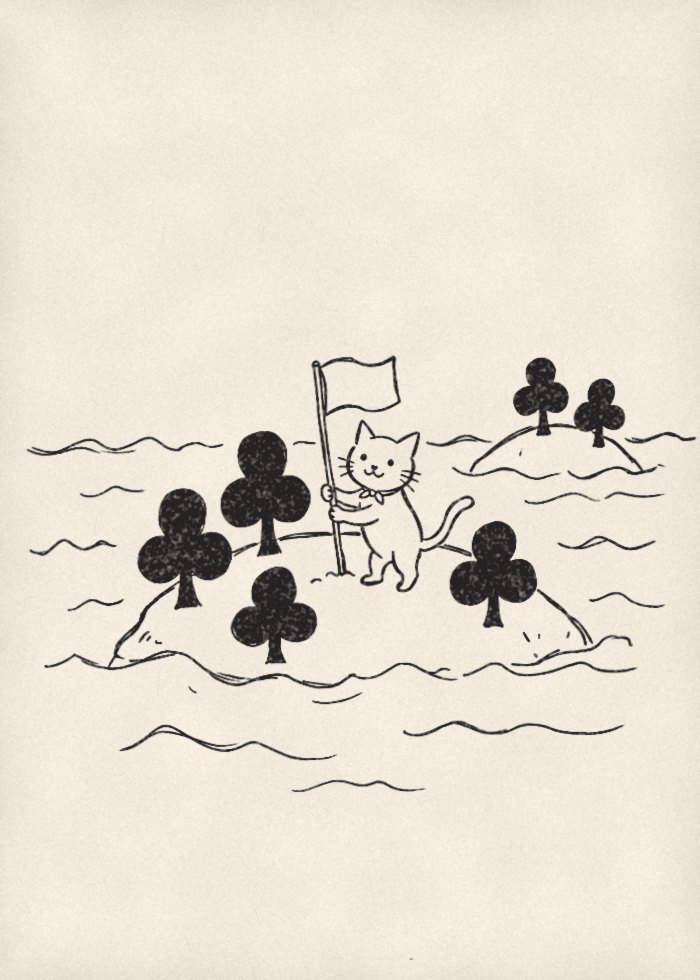
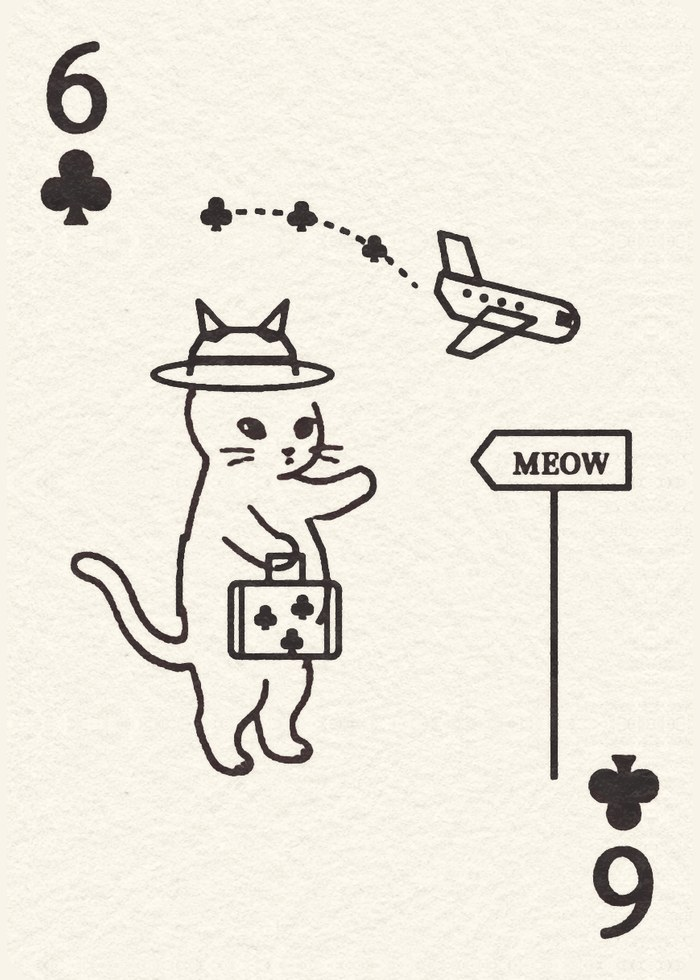
Projects: new 6♣ for ASEAN (cat traveller with the club suitcase)

diff --git a/projects.html b/projects.html
@@ -312,7 +312,7 @@
       {rank:"3", suit:"diamond", label:"PCDD", scene:"lab", img:"img/cards/card-3-diamonds.jpg"},
       {rank:"5", suit:"spade",   label:"Vantage", scene:"laptop", img:"img/cards/card-5-spades.jpg"},
       {rank:"4", suit:"heart",   label:"Red Cross fleet", scene:"car", img:"img/cards/card-4-hearts.jpg"},
-      {rank:"5", suit:"club",    label:"ASEAN expansion", scene:"islands", img:"img/cards/card-5-clubs.jpg"},
+      {rank:"6", suit:"club",    label:"ASEAN expansion", scene:"islands", img:"img/cards/card-6-clubs.jpg"},
       {rank:"7", suit:"spade",   label:"Fermilab lenses", scene:"telescope", img:"img/cards/card-7-spades.jpg"},
       {rank:"8", suit:"diamond", label:"green routing", scene:"bus", img:"img/cards/card-8-diamonds.jpg"},
       {rank:"JOKER", suit:null,  label:"this website", scene:"joker", img:"img/cards/card-joker.jpg"},
@@ -604,7 +604,7 @@
   </script>
 <script>
 // Hand-inked, watercolor playing cards scattered like a table. Purely decorative.
-// Skips the combos already used for projects (3♦ 5♠ 4♥ 5♣ 7♠ 8♦ 9♥ and the Joker).
+// Skips the combos already used for projects (3♦ 5♠ 4♥ 6♣ 7♠ 8♦ 9♥ and the Joker).
 (function(){
   const SUIT={
     heart:"M50 90 C20 68 5 52 5 33 C5 18 16 8 30 8 C40 8 46 14 50 23 C54 14 60 8 70 8 C84 8 95 18 95 33 C95 52 80 68 50 90Z",
@@ -904,7 +904,7 @@
   }
 
   // A border of real-looking printed cards piled down the left edge and along the bottom.
-  // Avoids the card values used for projects (3♦ 5♠ 4♥ 5♣ 7♠ 8♦ 9♥) and on the table (A♥ K♦).
+  // Avoids the card values used for projects (3♦ 5♠ 4♥ 6♣ 7♠ 8♦ 9♥) and on the table (A♥ K♦).
   const PIP={L:78,C:125,R:172};
   const PIPS={2:[['C',78],['C',272]],3:[['C',78],['C',175],['C',272]],4:[['L',78],['R',78],['L',272],['R',272]],
     5:[['L',78],['R',78],['C',175],['L',272],['R',272]],6:[['L',78],['R',78],['L',175],['R',175],['L',272],['R',272]],
@@ -931,7 +931,7 @@
       <rect x="3" y="3" width="244" height="344" rx="14" fill="url(#sh${f})" stroke="#cfcac0" stroke-width="2"/>
       ${corner}<g transform="rotate(180 125 175)">${corner}</g>${mid}</svg>`;
   }
-  const BORDER_CARDS=[['6','club'],['8','heart'],['9','spade'],['10','heart'],['J','spade'],['9','club'],['6','spade'],['J','heart'],['10','club'],['8','spade'],['7','club'],['3','heart'],['2','heart'],['Q','heart'],['8','club'],['2','spade'],['10','spade'],['K','club'],['4','spade'],['6','heart'],['Q','diamond'],['7','diamond'],['5','heart'],['10','diamond']];
+  const BORDER_CARDS=[['5','club'],['8','heart'],['9','spade'],['10','heart'],['J','spade'],['9','club'],['6','spade'],['J','heart'],['10','club'],['8','spade'],['7','club'],['3','heart'],['2','heart'],['Q','heart'],['8','club'],['2','spade'],['10','spade'],['K','club'],['4','spade'],['6','heart'],['Q','diamond'],['7','diamond'],['5','heart'],['10','diamond']];
   const frame=document.getElementById('cardframe');
   function rnd(seed){let x=Math.sin(seed*99.13)*43758.5453;return x-Math.floor(x);}
   function buildFrame(){
